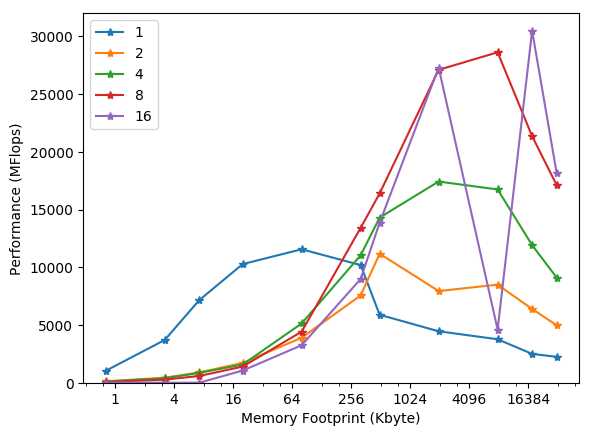
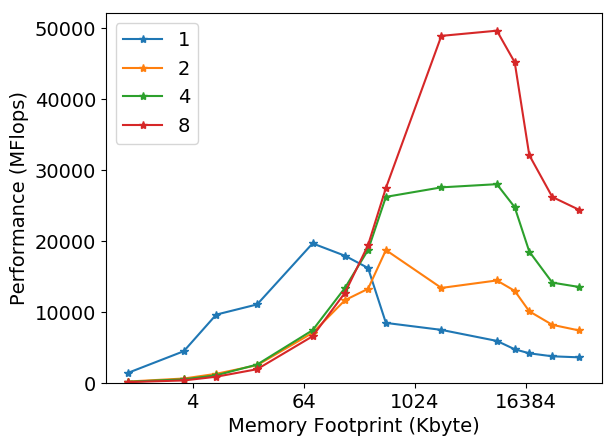
Add data and figures

diff --git a/data/vizfun.py b/data/vizfun.py
@@ -4,7 +4,13 @@ mpl.use('Agg')
 import matplotlib.pyplot as plt
 from matplotlib.ticker import ScalarFormatter
 
+font = {'size'   : 14}
+
+mpl.rc('font', **font)
+
 df1 = pd.read_csv('statfun.dat',delim_whitespace=True,header=None,names=["Threads","MaxIter","Memory","MFlops","WallTime","Size"])
+
+df1 = df1.loc[df1['Threads'] < 16]
 
 plt.figure()
 df1.set_index("Memory", inplace=True)
@@ -37,26 +43,25 @@ ax.set_major_formatter(ScalarFormatter())
 plt.savefig('WallTime.png', bbox_inches='tight')
 plt.close()
 
-
+df1 = pd.read_csv('statfun.dat',delim_whitespace=True,header=None,names=["Threads","MaxIter","Memory","MFlops","WallTime","Size"])
+df1 = df1.loc[df1['Size'] >= 100]
 plt.figure()
-df1.reset_index(inplace=True)
-#df1.set_index("Threads", inplace=True)
 df1 = df1.sort_values(['Size','Threads'],ascending=True)
-df_temp = df1.groupby('Size').first().reset_index()[['Threads','Size','WallTime']]
+df_temp = df1.groupby('Size').first().reset_index()[['Size','WallTime']]
 df_temp = df_temp.rename({'WallTime':'WallTimeFirst'},axis=1)
-df1 = df1.merge(df_temp,on=['Threads','Size'])
-df1['Speedup'] = df1['WallTime']/df1['WallTimeFirst']
+df1 = df1.merge(df_temp,on=['Size'])
+df1['Speedup'] = df1['WallTimeFirst']/df1['WallTime']
+df1.set_index("Threads", inplace=True)
 ax = df1.groupby("Size")["Speedup"].plot(legend=True, style ='*-')
-plt.legend(loc='upper left')
+plt.legend(loc='center left', bbox_to_anchor=(1, 0.5))
 plt.xlabel('Number of threads')
 plt.ylabel('Speedup')
-#plt.gca().set_ylim(bottom=0)
 plt.xscale('log',basex=2)
-plt.yscale('log',basey=2)
+#plt.yscale('log',basey=2)
 ax = plt.gca().xaxis
 ax.set_major_formatter(ScalarFormatter())
-ax = plt.gca().yaxis
-ax.set_major_formatter(ScalarFormatter())
+#ax = plt.gca().yaxis
+#ax.set_major_formatter(ScalarFormatter())
 plt.savefig('Speedup.png', bbox_inches='tight')
 plt.close()
 

diff --git a/data/vizchunksize.py b/data/vizchunksize.py
@@ -1,0 +1,23 @@
+import pandas as pd
+import matplotlib as mpl
+mpl.use('Agg')
+import matplotlib.pyplot as plt
+from matplotlib.ticker import ScalarFormatter
+
+df1 = pd.read_csv('chunksize.dat',delim_whitespace=True,header=None,names=["Threads","MaxIter","Memory","MFlops","te"])
+
+plt.figure()
+df1.set_index("Memory", inplace=True)
+ax = df1.groupby("Threads")["MFlops"].plot(legend=True, style ='*-')
+plt.legend(loc='upper left')
+plt.xlabel('Memory Footprint (Kbyte)')
+plt.ylabel('Performance (MFlops)')
+plt.gca().set_ylim(bottom=0)
+plt.xscale('log',basex=4)
+#plt.yscale('log',basey=2)
+ax = plt.gca().xaxis 
+ax.set_major_formatter(ScalarFormatter()) 
+#ax = plt.gca().yaxis 
+#ax.set_major_formatter(ScalarFormatter()) 
+plt.savefig('MFlops.png', bbox_inches='tight')
+plt.close()
